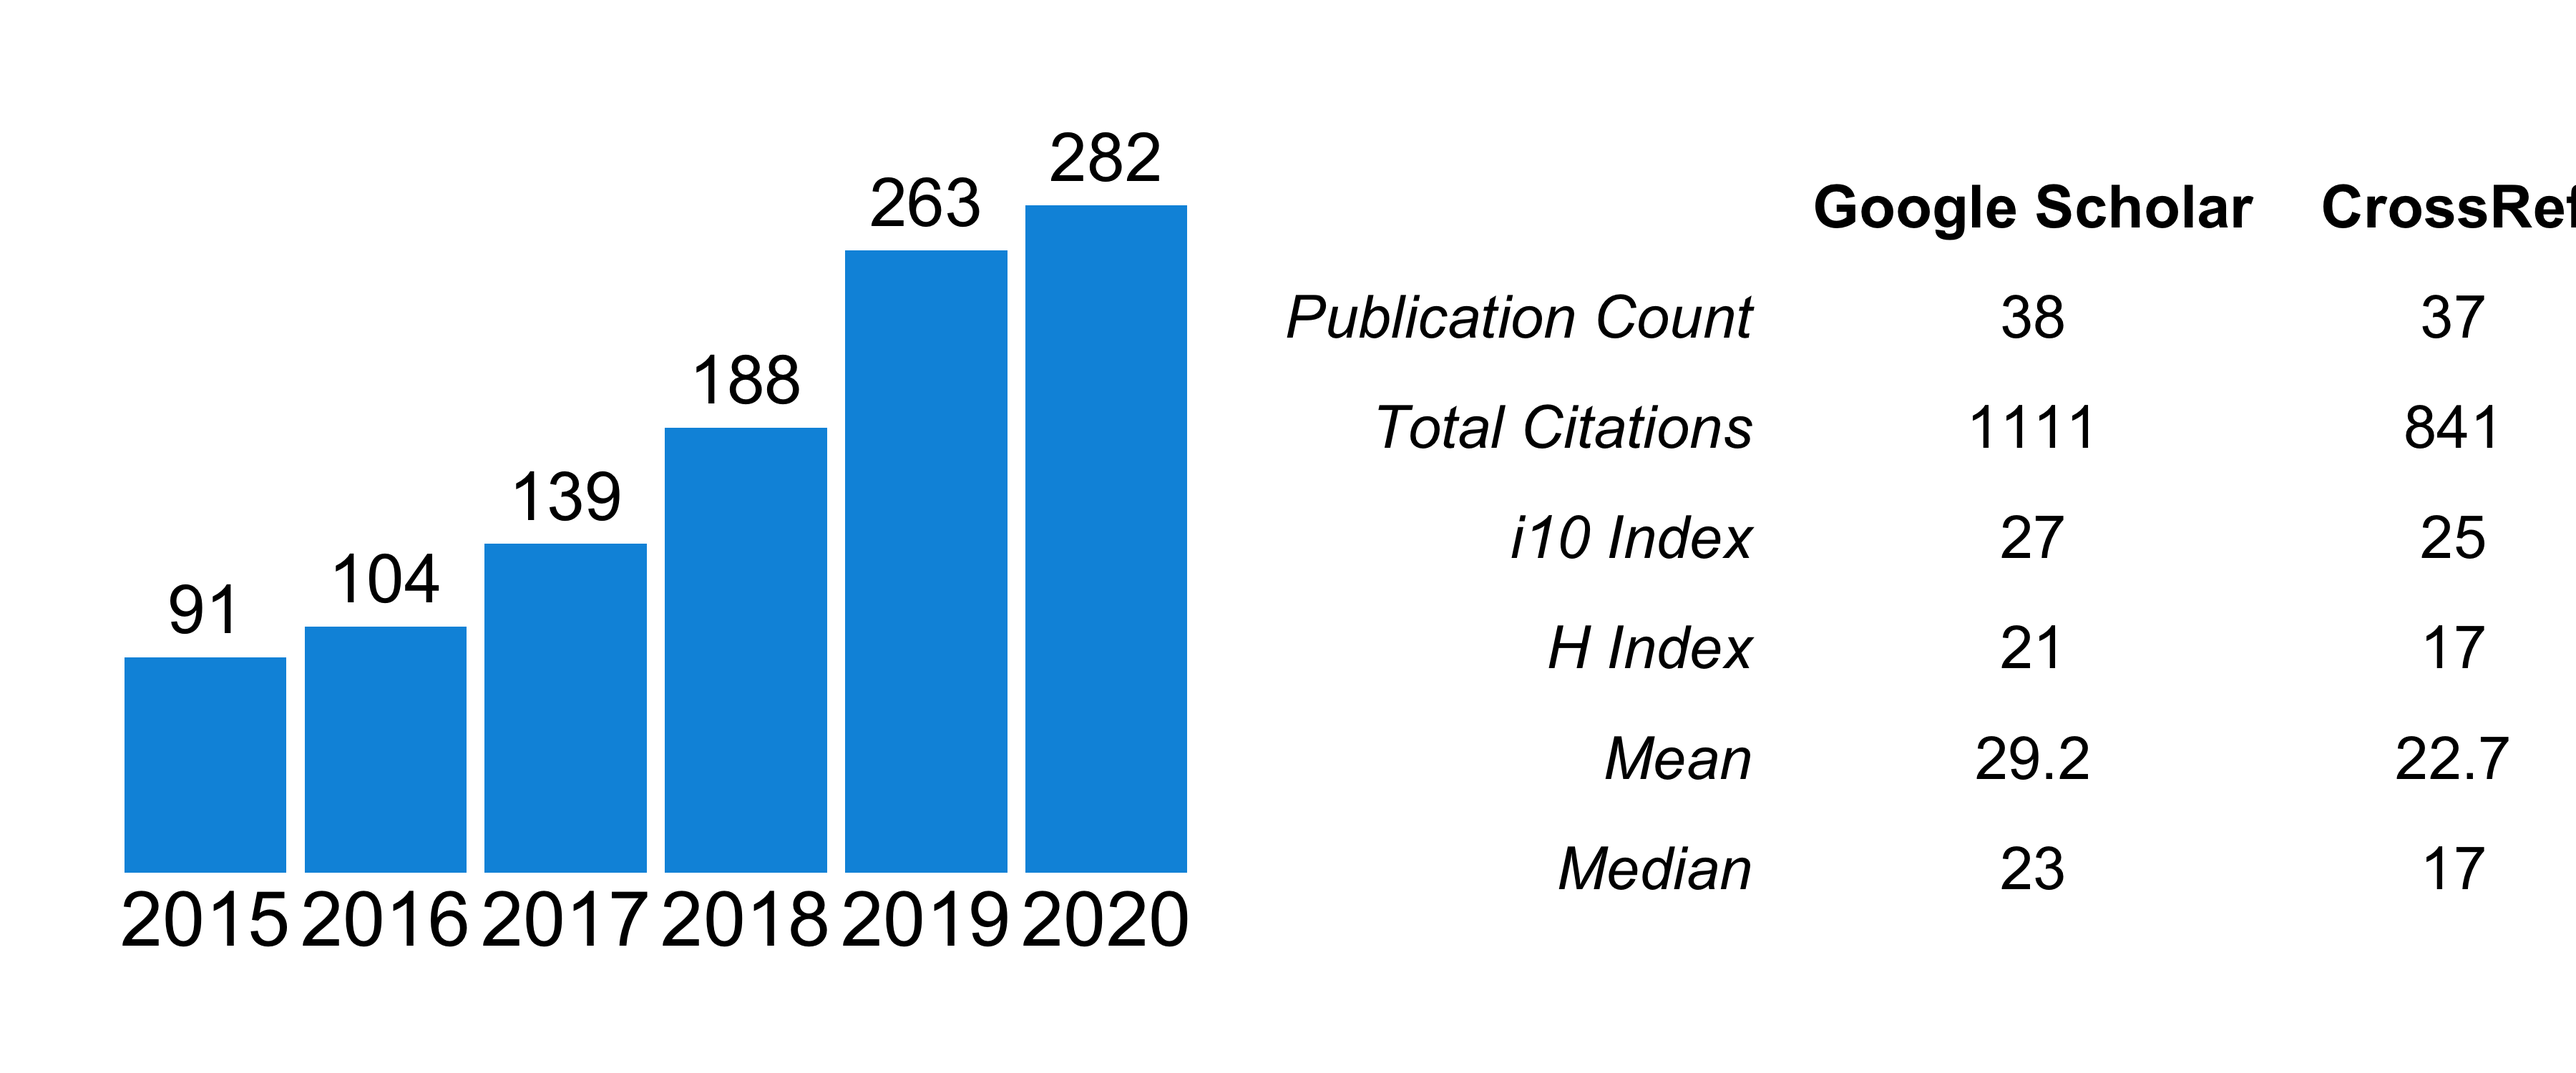
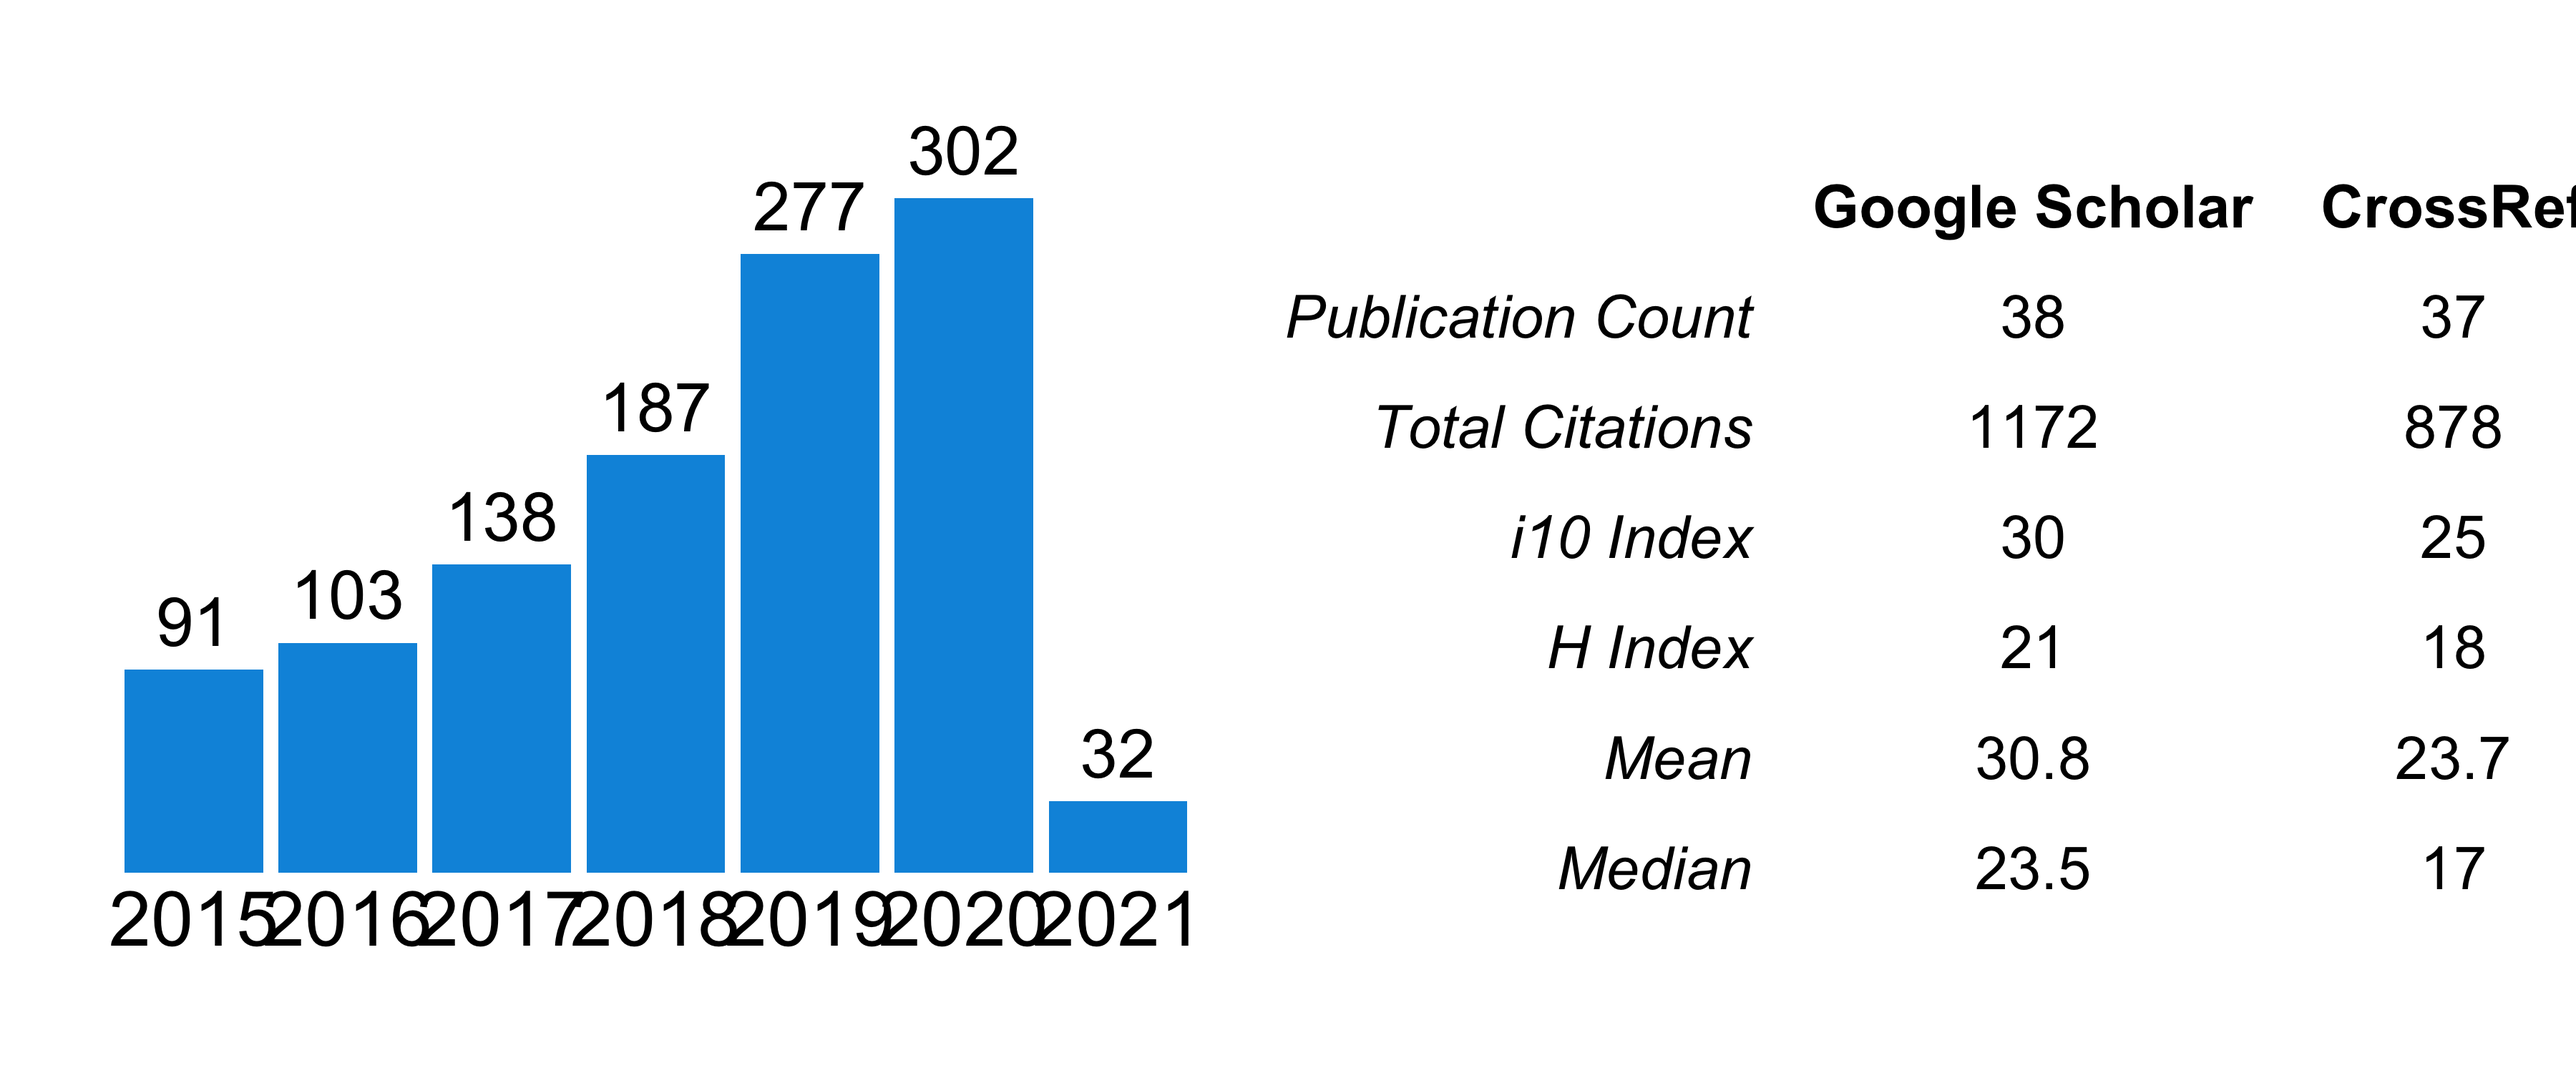
updated publications

diff --git a/_pages/publications.md b/_pages/publications.md
@@ -108,4 +108,4 @@ Castoe, Todd A., A. P. Jason de Koning, Kathryn T. Hall, **Daren C. Card**, Drew
 
 
 
-Last Updated: 2020-12-08
+Last Updated: 2021-02-14
